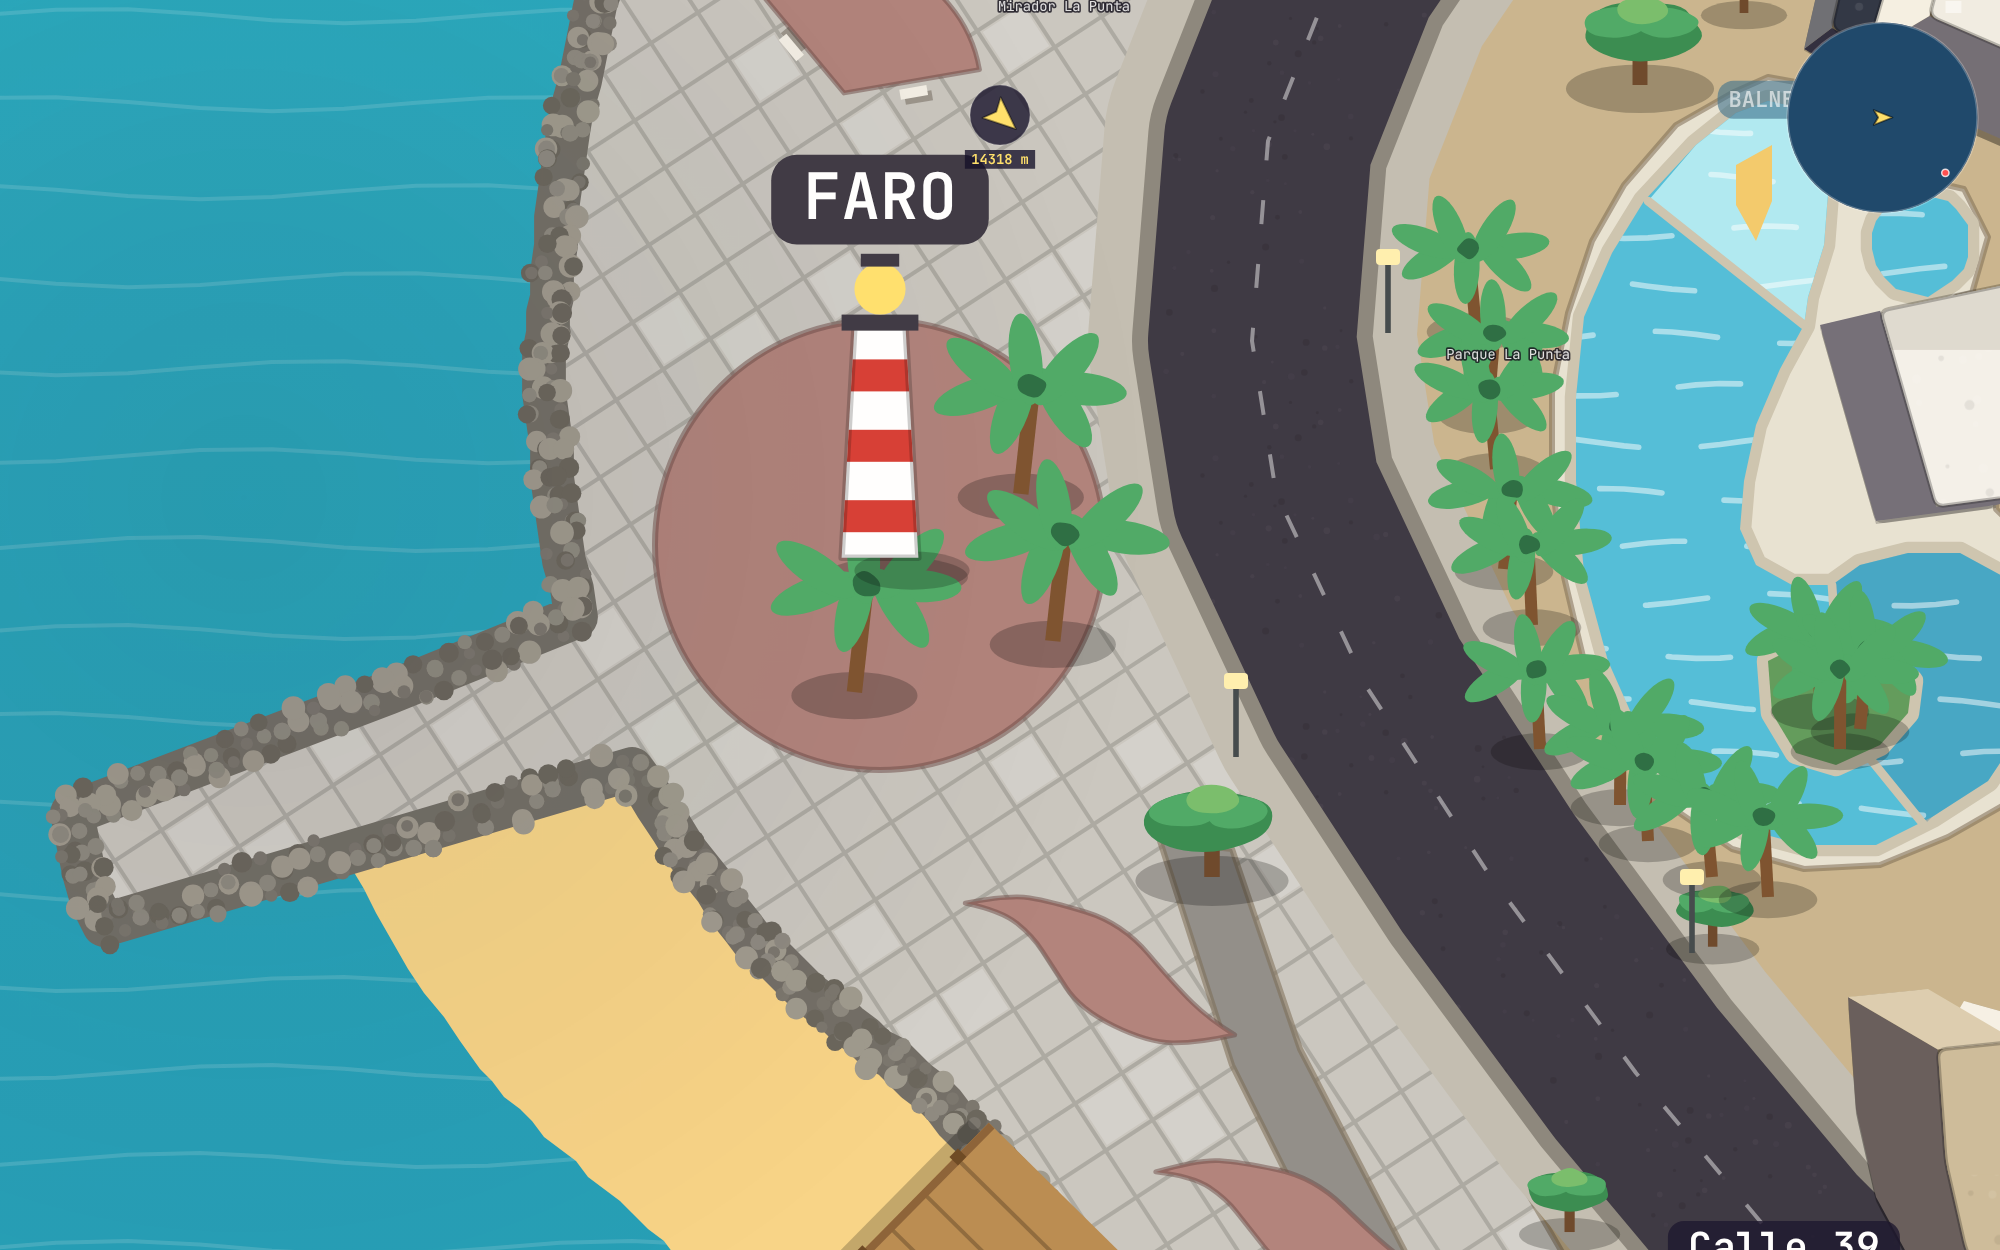
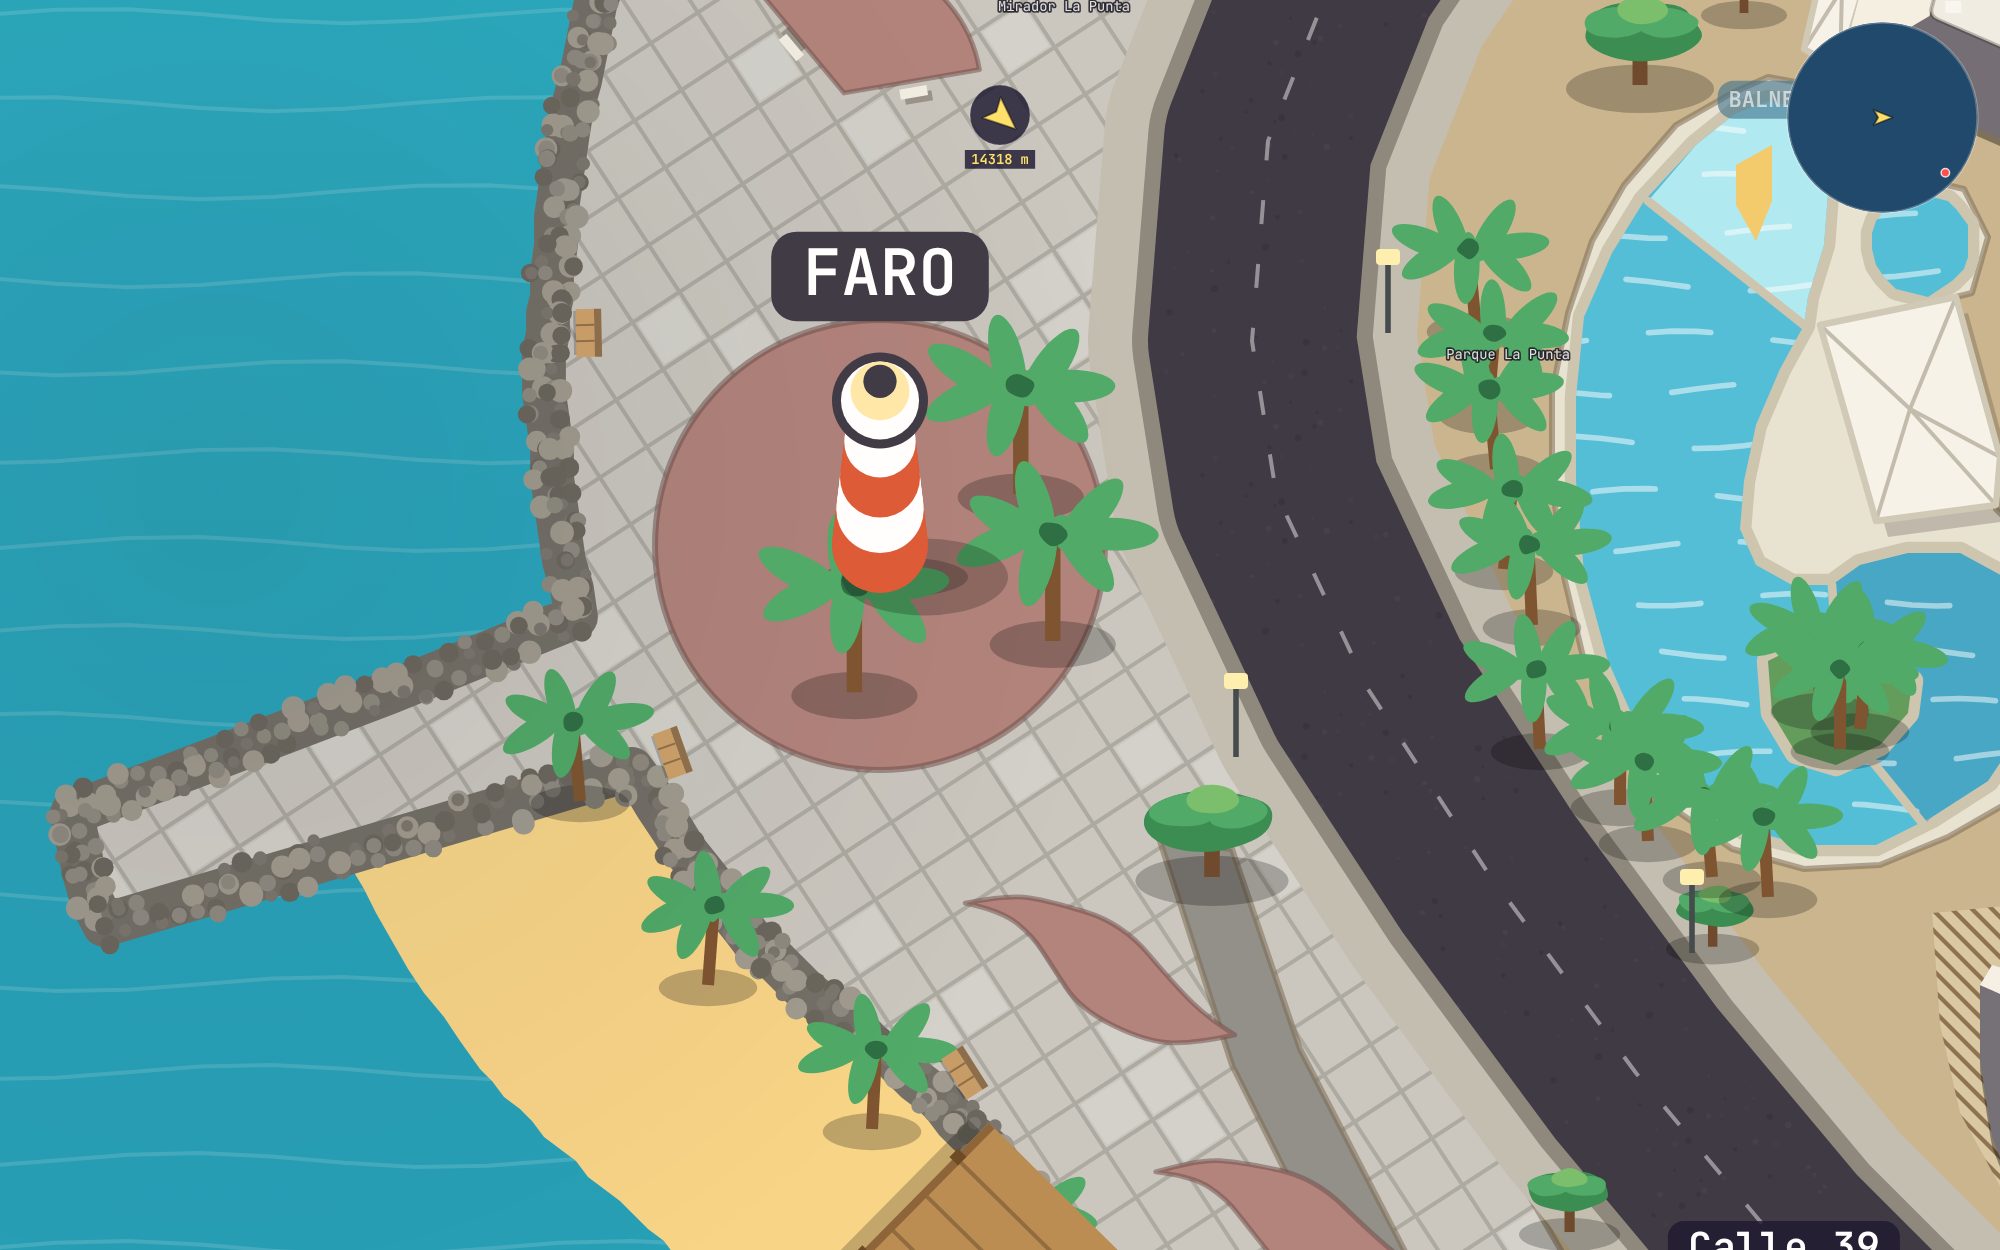
feat(world): el Faro desde arriba y con haz de noche, monumentos del frente, mobiliario y palmeras en fila
El Faro deja el alzado plano: lighthouse-tower lo pinta desde arriba —un
cilindro tendido por su altura con las franjas naranja como anillos— y de
noche tira dos haces amarillos anchos que giran (punta.beam,
drawPuntaNight, después de la oscuridad como los láseres de la feria).
Tres monumentos nuevos en el frente: los Cañones entre el vigorón y la
Capitanía, las letras de PUNTARENAS a la izquierda del churchill y la
Concha Acústica frente al Burger King; las cajas genéricas de OSM que
había ahí salen. Toldos y pérgola del Balneario pasan a ser techos de
verdad, y ningún edificio de esa cuadra queda sobre la calle. Las bancas
se recogen sobre el malecón y las palmeras van en fila pegadas a él. El
tramo al este del muelle arranca en el muelle con su ancho entero.

Preview sin reconstruir, salvo el arte del Faro (world-props), que sí
cambia en el juego.

Claude-Session: https://claude.ai/code/session_018GSydhWuDAT4g4GG3QKVY6

diff --git a/src/render/c2d/punta.js b/src/render/c2d/punta.js
@@ -97,6 +97,80 @@ function paintRiprap(line, view) {
   }
 }
 
+// EL TOLDO Y LA PÉRGOLA: techo, no edificio. El toldo es lona con sus limatesas del
+// borde al centro; la pérgola, viguetas a lo ancho sobre el piso que deja ver.
+function paintRoof(rf, ppm) {
+  const R = M.roofs, path = shape(rf), a = rf._aabb, cx = (a.x0 + a.x1) / 2, cy = (a.y0 + a.y1) / 2;
+  ctx.save(); ctx.translate(3, 4); ctx.fillStyle = R.shadow; ctx.fill(path); ctx.restore();
+  if (rf.kind === "pergola") {
+    ctx.save(); ctx.clip(path);
+    ctx.fillStyle = R.pergola; ctx.fill(path);
+    ctx.strokeStyle = R.pergolaBeam; ctx.lineWidth = 0.35 * ppm;
+    const step = R.beamEveryM * ppm;
+    ctx.beginPath();
+    for (let k = a.x0 + a.y0 - a.y1; k < a.x1; k += step) { ctx.moveTo(k, a.y0); ctx.lineTo(k + (a.y1 - a.y0), a.y1); }
+    ctx.stroke(); ctx.restore();
+    return;
+  }
+  ctx.fillStyle = R.canopy; ctx.fill(path);
+  ctx.strokeStyle = R.canopyRidge; ctx.lineWidth = 1;
+  ctx.beginPath();
+  for (let i = 0; i < rf.pts.length; i += 2) { ctx.moveTo(rf.pts[i], rf.pts[i + 1]); ctx.lineTo(cx, cy); }
+  ctx.stroke();
+  ctx.strokeStyle = R.canopyEdge; ctx.lineWidth = 1.6; ctx.stroke(path);
+}
+
+// LOS MONUMENTOS, desde arriba y girados con la calle: local +y es hacia el mar.
+function paintMonument(mo, ppm) {
+  const K = M.monuments, C = K[mo.kind];
+  if (!C) return;
+  ctx.save(); ctx.translate(mo.x, mo.y); ctx.rotate(mo.ang);
+  if (mo.kind === "cannons") {
+    const L = C.armM * ppm, w = C.armWM * ppm, b = C.barrelM * ppm;
+    ctx.fillStyle = K.shadow; ctx.fillRect(-L + 3, -w / 2 + 4, 2 * L, w); ctx.fillRect(-w / 2 + 3, -L * 0.62 + 4, w, L * 1.24);
+    ctx.fillStyle = C.base; ctx.fillRect(-L, -w / 2, 2 * L, w); ctx.fillRect(-w / 2, -L * 0.62, w, L * 1.24);
+    ctx.strokeStyle = C.baseTrim; ctx.lineWidth = 1; ctx.strokeRect(-L + 2, -w / 2 + 2, 2 * L - 4, w - 4);
+    for (const side of [-1, 1]) {
+      ctx.fillStyle = C.carriage; ctx.fillRect(side * L * 0.34 - w * 0.36, -w * 0.3, w * 0.72, w * 0.6);
+      ctx.strokeStyle = C.barrel; ctx.lineCap = "round"; ctx.lineWidth = 0.75 * ppm;
+      ctx.beginPath(); ctx.moveTo(side * L * 0.14, -w * 0.05); ctx.lineTo(side * (L * 0.14 + b), -w * 0.24); ctx.stroke();
+    }
+    ctx.fillStyle = C.block; ctx.fillRect(-w * 0.3, -w * 0.3, w * 0.6, w * 0.6);
+    ctx.fillStyle = C.base; ctx.fillRect(-w * 0.2, -w * 0.2, w * 0.4, w * 0.4);
+  } else if (mo.kind === "shell") {
+    const R = C.rM * ppm, step = R * 0.42 / C.tiers;
+    // las gradas, del lado de la calle; el escenario y la concha, del lado del mar
+    for (let k = C.tiers; k >= 1; k--) {
+      ctx.beginPath(); ctx.arc(0, 0, R * 0.58 + step * k, Math.PI, 2 * Math.PI); ctx.lineTo(0, 0); ctx.closePath();
+      ctx.fillStyle = C.tier; ctx.fill(); ctx.strokeStyle = C.tierEdge; ctx.lineWidth = 1; ctx.stroke();
+    }
+    ctx.beginPath(); ctx.arc(0, 0, R * 0.58, 0, 2 * Math.PI); ctx.fillStyle = C.floor; ctx.fill();
+    ctx.save(); ctx.translate(3, 4); ctx.beginPath(); ctx.arc(0, 0, R, 0, Math.PI); ctx.closePath(); ctx.fillStyle = K.shadow; ctx.fill(); ctx.restore();
+    for (let k = 0; k < C.petals; k++) {
+      const a0 = Math.PI * k / C.petals, a1 = Math.PI * (k + 1) / C.petals, am = (a0 + a1) / 2;
+      ctx.beginPath(); ctx.moveTo(0, R * 0.12);
+      ctx.quadraticCurveTo(Math.cos(a0) * R * 0.9, Math.sin(a0) * R * 0.9 + R * 0.05, Math.cos(am) * R * 1.04, Math.sin(am) * R * 1.04);
+      ctx.quadraticCurveTo(Math.cos(a1) * R * 0.9, Math.sin(a1) * R * 0.9 + R * 0.05, 0, R * 0.12);
+      ctx.fillStyle = k % 2 ? C.petalAlt : C.petal; ctx.fill();
+      ctx.strokeStyle = C.rib; ctx.lineWidth = 1.2; ctx.stroke();
+    }
+  } else if (mo.kind === "letters") {
+    const text = mo.text || "", n = text.length, step = C.stepM * ppm, H = C.heightM * ppm, half = (n - 1) * step / 2, sag = step * 1.1;
+    // la base curva: un arco bajo de concreto, y cada letra parada sobre él
+    ctx.strokeStyle = C.baseEdge; ctx.lineWidth = H * 0.62; ctx.lineCap = "round";
+    ctx.beginPath(); ctx.moveTo(-half - step * 0.6, -sag * 0.2); ctx.quadraticCurveTo(0, sag, half + step * 0.6, -sag * 0.2); ctx.stroke();
+    ctx.strokeStyle = C.base; ctx.lineWidth = H * 0.5; ctx.stroke();
+    ctx.font = `${H.toFixed(1)}px '${C.font}', sans-serif`; ctx.textAlign = "center"; ctx.textBaseline = "middle";
+    for (let k = 0; k < n; k++) {
+      const u = n > 1 ? k / (n - 1) : 0.5, x = -half + k * step, y = (1 - (2 * u - 1) ** 2) * sag * 0.52 - sag * 0.12;
+      ctx.fillStyle = C.shade; ctx.fillText(text[k], x + 1.5, y + 2);
+      ctx.fillStyle = C.inks[k % C.inks.length]; ctx.fillText(text[k], x, y);
+    }
+    ctx.textBaseline = "alphabetic";
+  }
+  ctx.restore();
+}
+
 function drawPunta(view, t = 0) {
   const P = W.PUNTA;
   if (!P || !aabbInView(P, view, 40)) return;
@@ -188,6 +262,9 @@ function drawPunta(view, t = 0) {
     ctx.fillStyle = M.props.shadow; ctx.fillRect(pr.x - s / 2 + 2, pr.y - s / 2 + 3, s, s);
     ctx.fillStyle = M.props.cabana; ctx.fillRect(pr.x - s / 2, pr.y - s / 2, s, s);
   }
+  // los techos sin paredes y los monumentos van con el suelo, bajo los árboles
+  for (const rf of P.roofs || []) paintRoof(rf, ppm);
+  for (const mo of P.monuments || []) paintMonument(mo, ppm);
   // la hora: UN velo sobre todo el suelo del lugar, en un solo relleno para
   // que donde dos figuras se montan no oscurezca dos veces
   // (el deck y el parqueo van DENTRO de otra figura: sumarlos abriría un hueco
@@ -232,4 +309,29 @@ function drawPuntaGates(view) {
   }
 }
 
-export { drawPunta, drawPuntaGates };
+// EL HAZ DEL FARO. Es luz: se pinta en pantalla, DESPUÉS de la oscuridad y sumando
+// —igual que los láseres de la feria—, o quedaría debajo del velo de la noche.
+function drawPuntaNight(view, t, toScreen, zoom, night) {
+  const P = W.PUNTA;
+  if (!P || !P.beams || night <= 0.001) return;
+  const B = M.beam, ppm = W.PX_PER_M, reach = B.lengthM * ppm, half = B.halfAngleDeg * RAD;
+  ctx.save();
+  ctx.globalCompositeOperation = "lighter";
+  for (const bm of P.beams) {
+    if (bm.x + reach < view.x0 || bm.x - reach > view.x1 || bm.y + reach < view.y0 || bm.y - reach > view.y1) continue;
+    const [sx, sy] = toScreen(bm.x, bm.y), L = reach * zoom, turn = t * B.turnsPerSec * Math.PI * 2;
+    for (const flip of [0, Math.PI]) {
+      const a = turn + flip, grad = ctx.createRadialGradient(sx, sy, 0, sx, sy, L);
+      grad.addColorStop(0, `rgba(${B.rgb},${(B.alpha * night).toFixed(3)})`);
+      grad.addColorStop(1, `rgba(${B.rgb},0)`);
+      ctx.fillStyle = grad;
+      ctx.beginPath(); ctx.moveTo(sx, sy); ctx.arc(sx, sy, L, a - half, a + half); ctx.closePath(); ctx.fill();
+    }
+    const g = B.glowM * ppm * zoom, glow = ctx.createRadialGradient(sx, sy, 0, sx, sy, g);
+    glow.addColorStop(0, `rgba(${B.rgb},${(0.9 * night).toFixed(3)})`); glow.addColorStop(1, `rgba(${B.rgb},0)`);
+    ctx.fillStyle = glow; ctx.beginPath(); ctx.arc(sx, sy, g, 0, Math.PI * 2); ctx.fill();
+  }
+  ctx.restore();
+}
+
+export { drawPunta, drawPuntaGates, drawPuntaNight };

diff --git a/src/render/c2d/sceneShapes.js b/src/render/c2d/sceneShapes.js
@@ -56,32 +56,31 @@ const FAMILY = Object.freeze({
     }
   },
 
+  // EL FARO SE VE DESDE ARRIBA, como todo lo construido en este mundo: la torre es
+  // un cilindro que se angosta, tendido hacia el norte por su altura, y sus franjas
+  // son anillos. Era un alzado plano —una torre de perfil parada sobre un mapa—,
+  // que es la única cosa del juego que se dibujaba así.
   "lighthouse-tower"(g, part, frame) {
-    const p = part;
+    const p = part, H = Number(p.height) * Number(p.lean), R0 = Number(p.baseHalf), R1 = Number(p.topHalf);
     g.fillStyle = frame.color(p.shadow);
-    g.beginPath(); g.ellipse(Number(p.shadowDx), Number(p.shadowDy),
-      Number(p.shadowRx), Number(p.shadowRy), 0, 0, TAU); g.fill();
-    const tower = new Path2D();
-    tower.moveTo(-Number(p.baseHalf), Number(p.foot));
-    tower.lineTo(-Number(p.topHalf), -Number(p.height));
-    tower.lineTo(Number(p.topHalf), -Number(p.height));
-    tower.lineTo(Number(p.baseHalf), Number(p.foot));
-    tower.closePath();
-    g.fillStyle = frame.color(p.body); g.fill(tower);
-    g.save(); g.clip(tower);
-    g.fillStyle = frame.color(p.band);
-    for (let i = 0; i < Number(p.bands); i++) {
-      g.fillRect(-Number(p.baseHalf) - 1, -Number(p.bandTop) + i * Number(p.bandGap),
-        Number(p.baseHalf) * 2 + 2, Number(p.bandH));
+    g.beginPath(); g.ellipse(Number(p.shadowDx), Number(p.shadowDy), Number(p.shadowRx), Number(p.shadowRy), 0, 0, TAU); g.fill();
+    const steps = Number(p.steps), bands = p.bandsAt || [];
+    for (let k = 0; k <= steps; k++) {
+      const f = k / steps, banded = bands.some(([a, b]) => f >= a && f < b);
+      g.fillStyle = frame.color(banded ? p.band : p.body);
+      g.beginPath(); g.arc(0, -H * f, R0 + (R1 - R0) * f, 0, TAU); g.fill();
     }
-    g.restore();
-    g.strokeStyle = frame.color(p.edge); g.lineWidth = Number(p.edgeWidth); g.stroke(tower);
+    g.strokeStyle = frame.color(p.edge); g.lineWidth = Number(p.edgeWidth);
+    g.beginPath(); g.arc(0, -H, R1, 0, TAU); g.stroke();
+    // la galería con su baranda, la linterna de vidrio y el techo
     g.fillStyle = frame.color(p.gallery);
-    g.fillRect(-Number(p.galleryW) / 2, -Number(p.galleryY), Number(p.galleryW), Number(p.galleryH));
+    g.beginPath(); g.arc(0, -H - Number(p.galleryH), Number(p.galleryW) / 2, 0, TAU); g.fill();
+    g.fillStyle = frame.color(p.body);
+    g.beginPath(); g.arc(0, -H - Number(p.galleryH), Number(p.galleryW) / 2 - Number(p.railW), 0, TAU); g.fill();
     g.fillStyle = frame.color(p.lantern);
-    g.beginPath(); g.arc(0, -Number(p.lanternY), Number(p.lanternR), 0, TAU); g.fill();
+    g.beginPath(); g.arc(0, -H - Number(p.lanternY), Number(p.lanternR), 0, TAU); g.fill();
     g.fillStyle = frame.color(p.gallery);
-    g.fillRect(-Number(p.finialW) / 2, -Number(p.finialY), Number(p.finialW), Number(p.finialH));
+    g.beginPath(); g.arc(0, -H - Number(p.finialY), Number(p.finialW) / 2, 0, TAU); g.fill();
   },
 
   "fountain-water"(g, part, frame) {

diff --git a/src/render/canvas2d.js b/src/render/canvas2d.js
@@ -28,7 +28,7 @@ import { drawBridge, drawFerries, drawPiers } from "./c2d/structures.js";
 import { drawChannel, drawEstero } from "./c2d/estero.js";
 import { drawLandmark, drawLote, drawParcels } from "./c2d/landmarks.js";
 import { drawAttractions, drawFeriaNightEffects } from "./c2d/attractions.js";
-import { drawPuntaGates } from "./c2d/punta.js";
+import { drawPuntaGates, drawPuntaNight } from "./c2d/punta.js";
 import {
   drawAnimal, drawArcadeCoin, drawBeachBall, drawBoat, drawCar, drawGull, drawGullFlock, drawPed, drawSchool,
   drawPlayer, drawPlayerCarrying, drawTargetCustomer, drawTrain, drawVendor,
@@ -316,6 +316,7 @@ function render(t, sharedCamera = null) { // t en SEGUNDOS (ver src/game/index.j
     const toScreen = (wx, wy) => worldToScreen(camera, wx, wy);
     drawNightLights(vw, vh, view, C.tint, toScreen, lit);
     drawFeriaNightEffects(view, t, toScreen, camera.zoom);
+    drawPuntaNight(view, t, toScreen, camera.zoom, nightLevel());   // el haz del Faro
   } else {
     ctx.fillStyle = C.tint; ctx.fillRect(0, 0, vw, vh);
   }

diff --git a/tests/test_punta.py b/tests/test_punta.py
@@ -45,8 +45,8 @@ class PuntaRegistryTests(unittest.TestCase):
         pairs = list(lls(self.doc))
         self.assertGreater(len(pairs), 200)
         for lat, lon in pairs:
-            self.assertTrue(9.9735 < lat < 9.979 and -84.853 < lon < -84.847,
-                            f"[{lat}, {lon}] no cae en La Punta — ¿píxeles, o lon/lat al revés?")
+            self.assertTrue(9.9735 < lat < 9.979 and -84.853 < lon < -84.82,
+                            f"[{lat}, {lon}] no cae en el frente de La Punta al Muelle de Cruceros — ¿píxeles, o lon/lat al revés?")
 
     def test_every_use_has_a_material(self):
         punta = self.mat["punta"]
